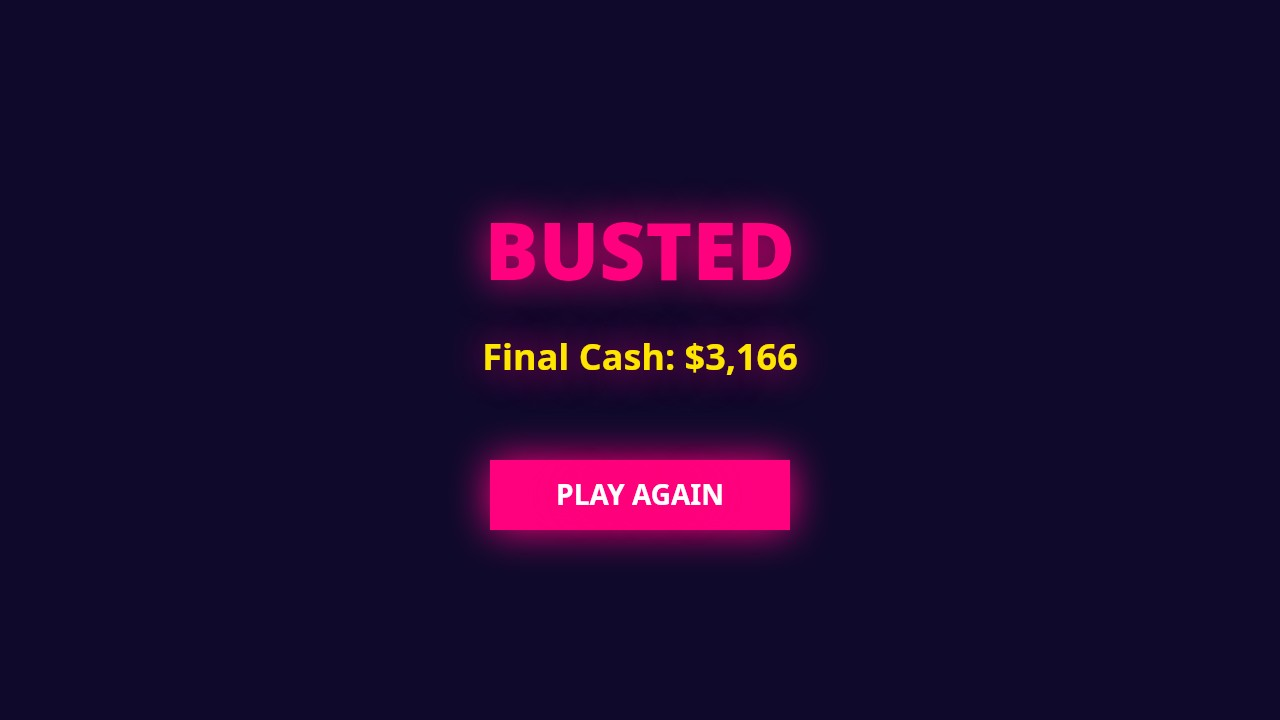
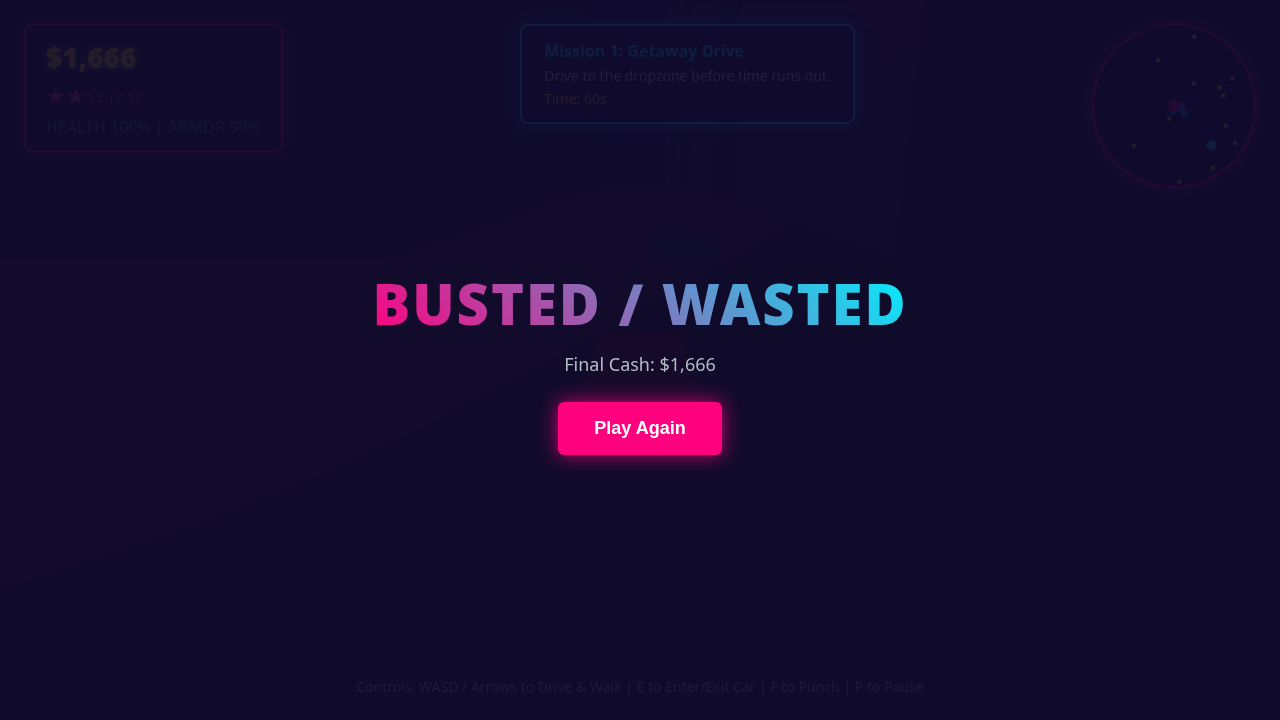
Fix game load (STEP export), hide Continue with no save, replace screenshots with real browser renders

Changed region(s): [[0.2812, 0.275, 0.7188, 0.7944]]

diff --git a/game/index.html b/game/index.html
@@ -17,6 +17,7 @@
   #minimap { width: 100%; height: 100%; display: block; }
   .overlay { position: absolute; inset: 0; background: rgba(16, 11, 46, 0.92); display: flex; flex-direction: column; align-items: center; justify-content: center; z-index: 10; transition: opacity 0.3s; padding: 40px; text-align: center; }
   .overlay.hidden { opacity: 0; pointer-events: none; }
+  .hidden { display: none !important; }
   h1 { font-size: 56px; font-weight: 900; margin: 0 0 10px 0; background: linear-gradient(45deg, #ff007f, #00f0ff); -webkit-background-clip: text; -webkit-text-fill-color: transparent; text-transform: uppercase; letter-spacing: 2px; }
   p { font-size: 18px; color: #b0bec5; margin: 0 0 24px 0; max-width: 600px; line-height: 1.5; }
   .btn-group { display: flex; gap: 16px; }

diff --git a/game/src/config.js b/game/src/config.js
@@ -1,5 +1,6 @@
 export const WORLD_SIZE = 1600;
 export const BLOCK_SIZE = 120;
+export const STEP = 1 / 60;
 
 export const CAR = {
   width: 3.2,
